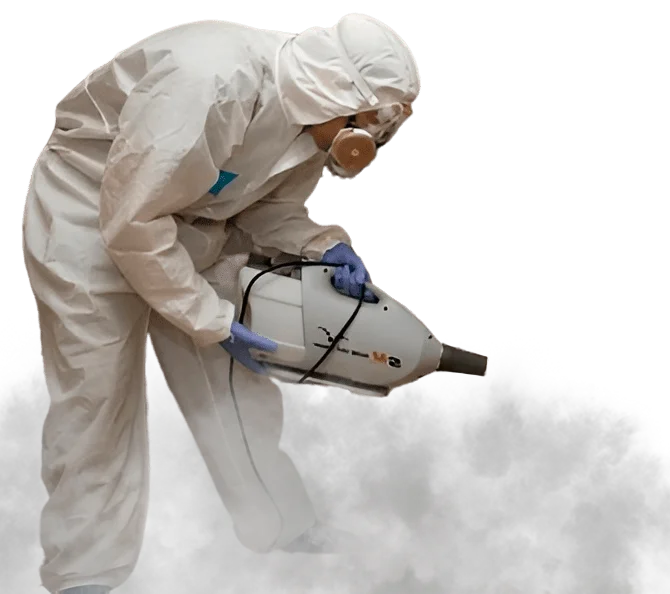
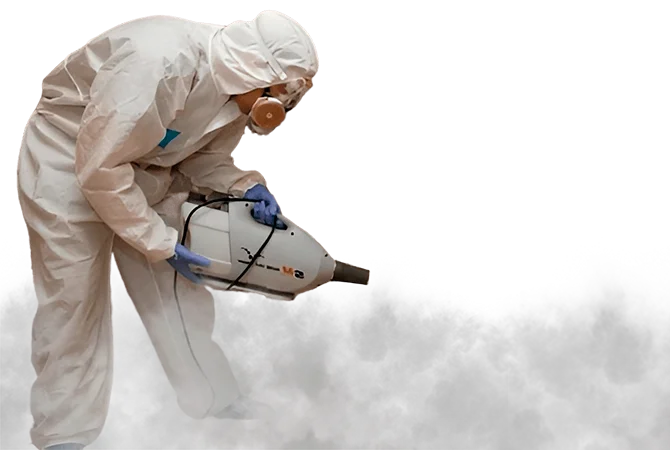
обновил Shape

diff --git a/src/content/uslugi/dezinsekciya.md b/src/content/uslugi/dezinsekciya.md
@@ -62,7 +62,7 @@ serviceMethod:
     - title: Уничтожение клопов с помощью горячего тумана
       description: Горячий туман – метод химической обработки помещений и открытых зон с целью уничтожения вредных насекомых и паразитов.
       principle_operation: Метод основан на термической обработке. Разогретый дым с препаратом распространяется по всей поверхности, проникая даже в труднодоступные места. Горячий туман эффективен против различных вредителей, включая клопов. Облако тумана медленно опускается в течение 2-3 часов, достигая скрытых участков и уничтожая насекомых.
-      image: "/images/collaboration.png"
+      image: "/images/service-pages/goryachyj-tuman.webp"
       button:
         label: Заказать
         link: "#toTheForm"
@@ -78,10 +78,10 @@ serviceMethod:
         - Во время обработки людям и животным необходимо покинуть помещение
         - Перед обработкой нужно убрать продукты и личные вещи.
         - После обработки требуется проветривание помещения.
-      image: "/images/collaboration.png"
+      image: "/images/service-pages/goryachyj-tuman-2.webp"
 
 steps:
-  title: The six core work <br /> drive everything do
+  title: Как мы работаем
   button:
     label: Заказать консультацию
     link: "#toTheForm"
